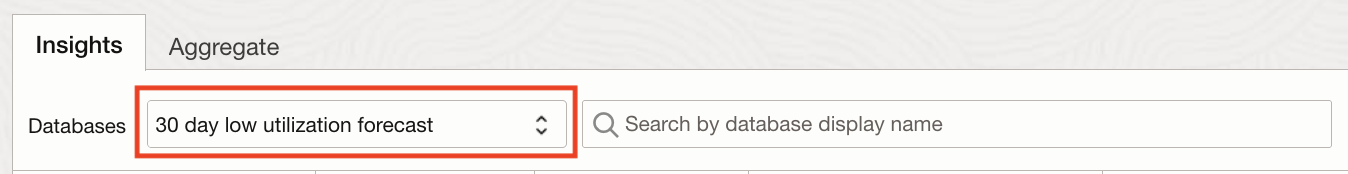
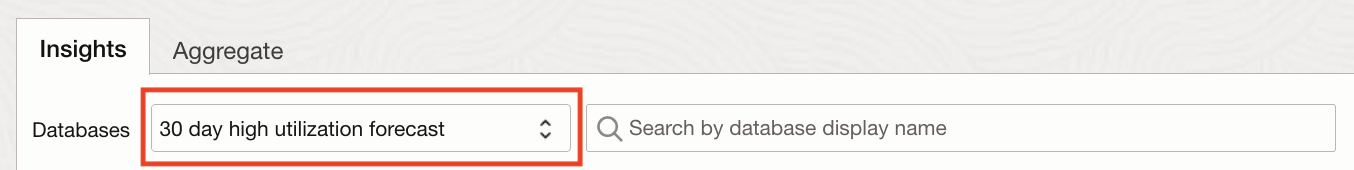
Final HeatWave changes

diff --git a/mysql/oci-heatwave-monitoring/c-lab-two-opsi/opsi.md b/mysql/oci-heatwave-monitoring/c-lab-two-opsi/opsi.md
@@ -1,6 +1,6 @@
 ## Introduction
 
-In this lab, you will go through the steps to explore Ops Insights for External MySQL DB System which includes ML based resource usage trending, capacity planning, and SQL Insights.
+In this lab, you will go through the steps to explore Ops Insights for HeatWave MySQL DB system which includes ML based resource usage trending, Capacity Planning, and SQL Insights.
 
 Estimated time: 20 minutes
 
@@ -162,34 +162,34 @@ Estimated time: 20 minutes
 
      The page displays a Treemap of all databases breaking it down by Database Type. This lets you compare how your different, individual databases are using their resources as well as between various database types.
 
-## Task 4: Capacity Planning - Storage
+## Task 4: Capacity Planning - Memory
 
-1.  Click on the **Storage** menu on the left panel.
+1.  Click on the **Memory** menu on the left panel.
 
-      ![Left Pane](./images/storage-menu.png " ")
+      ![Left Pane](./images/memory-menu.png " ")
 
-2.  You get a complete view of storage usage across all Ops Insights enabled databases.
+2.  You get a complete view of memory usage across all Ops Insights enabled databases.
 
-      ![Left Pane](./images/database-storage.png " ")
+      ![Left Pane](./images/database-memory.png " ")
 
-    From here we can identify servers with underused or overused storage and also compare storage utilization between databases.
+    From here we can identify servers with underused or overused memory and also compare memory utilization between databases.
 
-3.  From the drop-down on the top select **30 Days Low Utilization Forecast**.
+3.  From the drop-down on the top select **30 Days High Utilization Forecast**.
 
       ![Left Pane](./images/utilization-forecast.png " ")
 
-4.  In the **Trend & Forecast** chart view the storage trend and usage forecast for the selected database. View **Max usage** and **Max usage forecast** from the right panel.
+4.  In the **Trend & Forecast** chart view the memory trend and usage forecast for the selected database. View **Max usage** and **Max usage forecast** from the right panel.
 
-      ![Left Pane](./images/storage-trend-max.png " ")
+      ![Left Pane](./images/memory-trend-max.png " ")
 
-      You can see the average forecasted value v/s Max forecasted value for storage. **Max Usage Forecast** for this database is 0.008 TB, whereas **Allocation** shows that total storage allocated to this database is 2 TB. Since, allocation is more but storage used or forecasted is less, it is ok release some storage for this database and save money on storage.
+      You can compare the average forecasted memory usage with the maximum forecasted value. In this case, **Max Usage Forecast** is 27.33 GB, while the database has only 16 GB **allocated**. Since the forecasted usage exceeds the allocated memory, it is important to increase the allocation to avoid any potential issues.
 
 6.  In the **Trend & Forecast** chart view, the **AutoML forecasting** option selects the best fit from multiple machine learning models trained on fixed data window. AutoML (Machine Learning) forecasting leverages Oracle Data Science, employing metalearning to quickly identify the most relevant features, model and hyperparameters for a given training dataset. Forecast and model are precomputed and the forecasts are periodically retrained. The forecast uses up to 13 months of data, or the highest amount of data available for a resource if the resource has less than 13 months since onboarding.
 
-      ![Left Pane](./images/storage-trend-forecast-ml.png " ")
-      ![Left Pane](./images/storage-trend-forecast-auto-ml.png " ")
+      ![Left Pane](./images/memory-trend-forecast-ml.png " ")
+      ![Left Pane](./images/memory-trend-forecast-auto-ml.png " ")
 
-      Click **Close** to go back to the **Database Storage** page.
+      Click **Close** to go back to the **Database Memory** page.
 
 ## Task 5: SQL Insights
 
@@ -213,31 +213,31 @@ Estimated time: 20 minutes
 
 ## Task 6: SQL Explorer
 
-SQL Explorer provides an easy-to-use interface that lets you interactively explore and visualize detailed performance statistics stored in Ops Insights SQL Warehouse.
+1. SQL Explorer provides an easy-to-use interface that lets you interactively explore and visualize detailed performance statistics stored in Ops Insights SQL Warehouse.
 
-With SQL Explorer, you can explore performance statistics via a SQL query to extract the data with which to create an intuitive visualization. This provides interactive data exploration and visualization for deep exploration of application SQL performance statistics. The user interface is designed to simplify and streamline query development.
+2. With SQL Explorer, you can explore performance statistics via a SQL query to extract the data with which to create an intuitive visualization. This provides interactive data exploration and visualization for deep exploration of application SQL performance statistics. The user interface is designed to simplify and streamline query development.
 
-In this lab create visualizations using pre-existing performance statistics via a SQL query.
+3. In this lab create visualizations using pre-existing performance statistics via a SQL query.
 
-1. In this example we will calculate the average latency per execution to analyze the performance of operations over time.
+4. In this example we will calculate the average latency per execution to analyze the performance of operations over time.
 
-2. On the **Ops Insights Overview** page, from the left pane click **SQL Insights** and then click **SQL Explorer**.
+5. On the **Ops Insights Overview** page, from the left pane click **SQL Insights** and then click **SQL Explorer**.
 
       ![SQL Explorer](./images/sql-explorer.png " ")
 
-3. This will take you to the **SQL Explorer** page.
+6. This will take you to the **SQL Explorer** page.
 
       ![SQL Explorer](./images/sql-explorer-main.png " ")
 
-4. Select **Resource type** as **MySQL**.
+7. Select **Resource type** as **MySQL**.
 
       ![SQL Explorer](./images/sql-explorer-database.png " ")
 
-5. Remove default **\*** from SELECT statement line.
+8. Remove default **\*** from SELECT statement line.
 
       ![SQL Explorer](./images/sql-explorer-remove-select.png " ")
 
-6. Enter the following SQL in the SQL query section (copy & paste the statement line by line)
+9. Enter the following SQL in the SQL query section (copy & paste the statement line by line)
 
       ```
             SELECT <copy> ROLLUP_TIME_UTC, AVG(TOTAL_LATENCY/EXEC_COUNT)/1000000000 as AVG_LATENCY_SEC
@@ -263,13 +263,13 @@ In this lab create visualizations using pre-existing performance statistics via 
 
       ![SQL Query](./images/sql-query.png " ")
 
-7. Click **Run** to execute the query.
+10. Click **Run** to execute the query.
 
-8. This will display the query result in a tabular format.
+11. This will display the query result in a tabular format.
 
       ![SQL Output](./images/sql-query-table.png " ")
 
-9. Under the **Visualization** tab on the right pane, select the following -
+12. Under the **Visualization** tab on the right pane, select the following -
 
       **Chart type** : **Area Chart**
 
@@ -281,17 +281,17 @@ In this lab create visualizations using pre-existing performance statistics via 
 
       ![SQL Visualization](./images/sql-query-visual.png " ")
 
-10. This will display the visualization as an **Area Chart**.
+13. This will display the visualization as an **Area Chart**.
 
-11. Click on **Clear** to clear the query section.
+14. Click on **Clear** to clear the query section.
 
       ![SQL Visualization](./images/sql-explorer-clear.png " ")
 
-12. Click on **Advanced** Mode to view **SQL Explorer** in advanced mode. The advanced mode give you more control over the SQL queries that you are running against your database to view database performance.
+15. Click on **Advanced** Mode to view **SQL Explorer** in advanced mode. The advanced mode give you more control over the SQL queries that you are running against your database to view database performance.
 
       ![SQL Visualization](./images/sql-explorer-advanced.png " ")
 
-13. This will take you to the **SQL Explorer Advanced** Mode page. Advanced mode can be used to execute your own custom queries and obtain more information above the SQLs running in the database.
+16. This will take you to the **SQL Explorer Advanced** Mode page. Advanced mode can be used to execute your own custom queries and obtain more information above the SQLs running in the database.
 
       ![SQL Visualization](./images/sql-explorer-advanced-main.png " ")
 

diff --git a/mysql/oci-heatwave-monitoring/b-lab-one-database-management/dbm.md b/mysql/oci-heatwave-monitoring/b-lab-one-database-management/dbm.md
@@ -1,6 +1,6 @@
 ## Introduction
 
-In this lab, you will explore Database Management for HeatWave MySQL DB System. Database Management provides a single-pane-of-glass view of your fleet of cloud and on-premises databases in OCI, and enables you to detect issues. Here are some of the tasks you can perform using Database Management, which are categorized under database monitoring and management areas.
+In this lab, you will explore Database Management for HeatWave MySQL DB system. Database Management provides a single-pane-of-glass view of your fleet of cloud and on-premises databases in OCI, and enables you to detect issues. Here are some of the tasks you can perform using Database Management, which are categorized under database monitoring and management areas.
 
 Estimated time: 20 minutes
 
@@ -25,7 +25,7 @@ Estimated time: 20 minutes
 
 ## Task 2: Monitoring a Fleet of MySQL Databases
 
-1. On the left pane, click **Diagnostics & Management** to navigate to the **HeatWave & MySQL fleet summary** page. The dbmgmt compartment is selected by default in the Compartment field. Set the **Compartment** to **dbmgmt** following the navigation -
+1. On the left pane, click **Diagnostics & Management** to navigate to the **HeatWave & MySQL fleet summary** page. The dbmgmt compartment is selected by default in the Compartment field. Set the **Compartment** to **dbmgmt** following the navigation.
 
      ![Compartment](./images/navigation.png " ")
 
@@ -134,9 +134,9 @@ Estimated time: 20 minutes
      ![Operation Stats](./images/view-alarm.png " ")
 
 - Use the **Search** field and the filter drop-down lists above the list of alarms to filter the alarms:
-     - Severity filter: View the alarms of a particular severity type (Critical, Error, Warning, Information).
-     - Scope filter: View the alarms specified for all the DB systems in a compartment or the alarms specified for the DB system. By default, all the alarms are displayed.
-     - Origin filter: View the Oracle-recommended alarms or the custom alarms created in the Monitoring service, for the DB system. By default, all the alarms are displayed.
+     - **Severity filter**: View the alarms of a particular severity type (Critical, Error, Warning, Information).
+     - **Scope filter**: View the alarms specified for all the DB systems in a compartment or the alarms specified for the DB system. By default, all the alarms are displayed.
+    - **Origin filter**: View the Oracle-recommended alarms or the custom alarms created in the Monitoring service, for the DB system. By default, all the alarms are displayed.
 
      ![Operation Stats](./images/search-alarm.png " ")
 

diff --git a/mysql/oci-heatwave-monitoring/a-introduction/introduction.md b/mysql/oci-heatwave-monitoring/a-introduction/introduction.md
@@ -6,7 +6,7 @@
 
  You'll learn how to:
  * Use Oracle Cloud Infrastructure (OCI) Database Management to monitor the MySQL HeatWave databases
- * Use Ops Insights for capacity planning & SQL Insights
+ * Use Ops Insights for Capacity Planning & SQL Insights
  * Use Logging Analytics to collect and analyze application logs
 
 Estimated Time: 60 minutes
